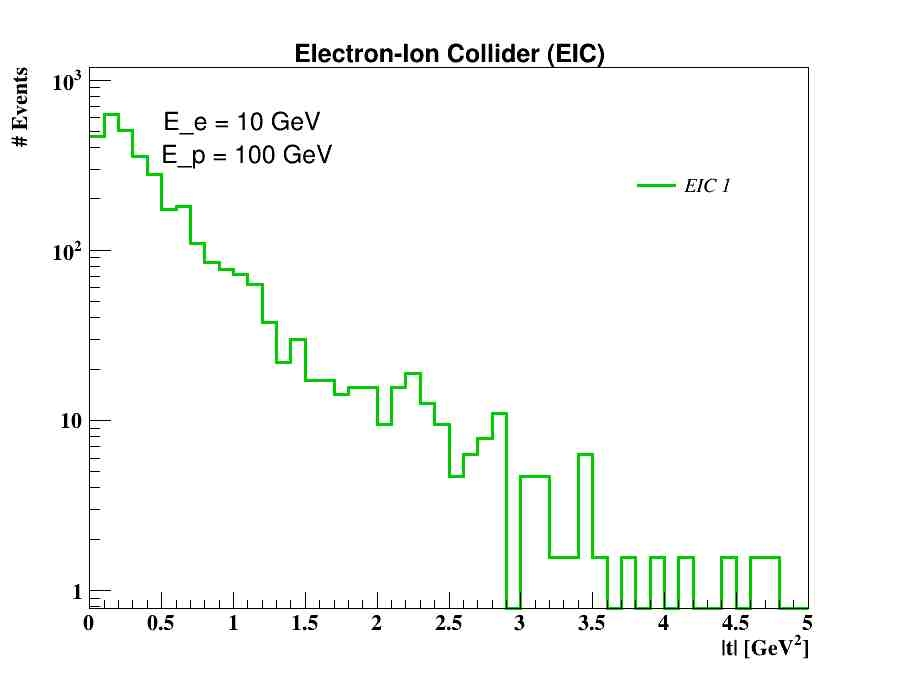
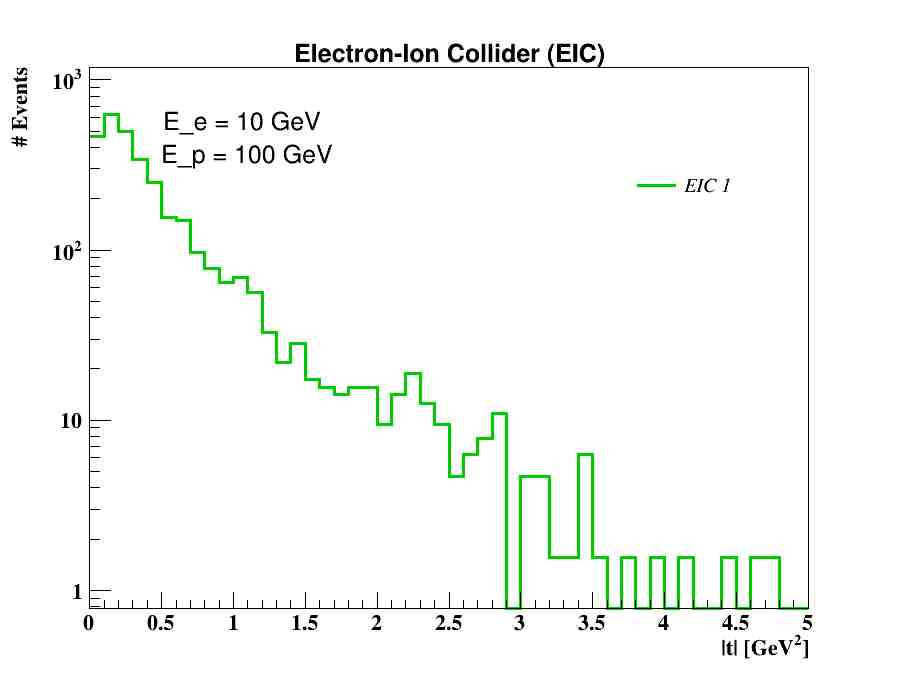
MyGoodLeptonplus

diff --git a/epic_out_file_v2.C b/epic_out_file_v2.C
@@ -293,13 +293,32 @@ if ( Pi_Theta_e > 10.0/1000.0 ) { continue; }  // 10 mrad
     
 // ++++++++++++++++++++++++++++++++++++++++++++++++++++++++++++++++++++++++++              
 
-    
+
+ if ( MyGoodLeptonplus.Pt()  < 0.30 ) { continue; }  // 300 MeV
+ if ( MyGoodLeptonminus.Pt() < 0.30 ) { continue; }  // 300 MeV
+
+ //        cout << "MyGoodLeptonplus Pt = "   <<  MyGoodLeptonplus.Pt()  << endl;   
+ //        cout << "MyGoodLeptonminus Pt = "   <<  MyGoodLeptonminus.Pt()  << endl;   
+
+
+ if ( abs(MyGoodLeptonplus.Eta())  > 3.50 ) { continue; }  // 3.5
+ if ( abs(MyGoodLeptonminus.Eta()) > 3.50 ) { continue; }  // 3.5
+ 
+
+        cout << "fbs(MyGoodLeptonplus Eta) = "    <<  abs(MyGoodLeptonplus.Eta())  << endl;   
+        cout << "fbs(MyGoodLeptonminus Eta) = "   <<  abs(MyGoodLeptonminus.Eta())  << endl;           
+
+
       MydiLepton = MyGoodLeptonplus + MyGoodLeptonminus;
 
 //      cout << "MydiLepton Pt = " << MydiLepton.Pt() << endl; 
 //      cout << "MydiLepton M = "  << MydiLepton.M()  << endl;       
 //      cout << "MydiLepton P = "  << MydiLepton.P()  << endl;     
       
+
+
+
+
       Mll  = MydiLepton.M();
       Ptll = MydiLepton.Pt();
       
